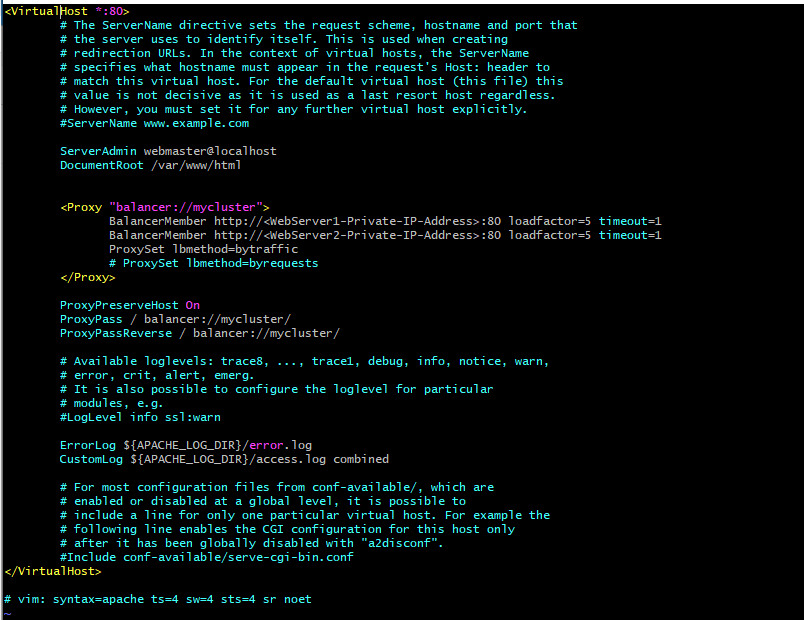
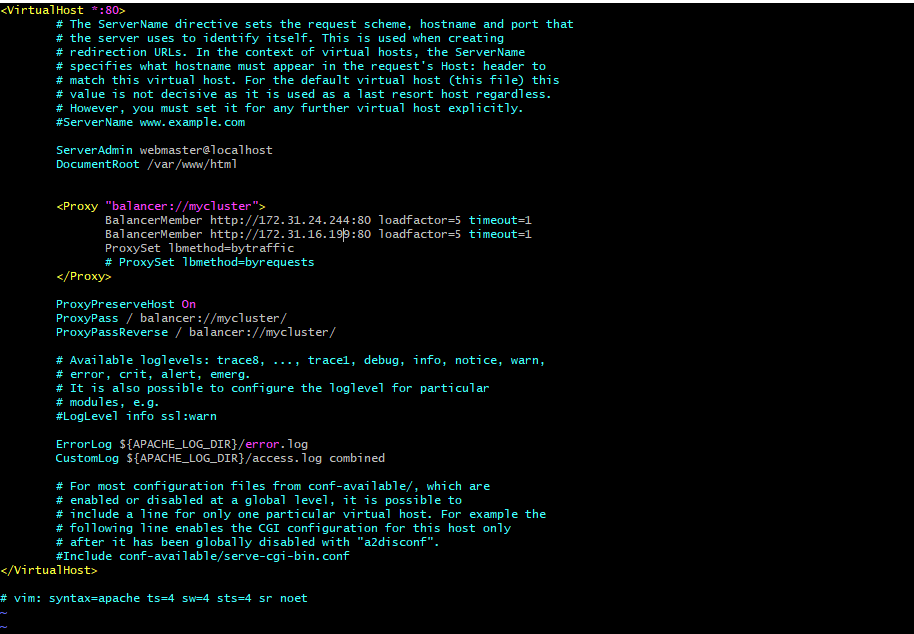
Implement project 8

Changed region(s): [[0.0, 0.0, 0.8085, 1.0]]

diff --git a/project8.md b/project8.md
@@ -9,7 +9,7 @@
 
 -  A Load Balancer (LB) distributes clients’ requests among underlying Web Servers and makes sure that the load is distributed in an optimal way.
 
-![](images/project7/arch.png)
+![](images/project8/arch.png)
 
 > Task
 _Deploy and configure an Apache Load Balancer for Tooling Website solution on a separate Ubuntu EC2 intance. Make sure that users can be served by Web servers through the Load Balancer._
@@ -62,7 +62,33 @@ sudo systemctl restart apache2
 
     ```
 
-    ![](images/project7/lb-config.png)
+    ![](images/project8/lb-config.png)
 
     * #Restart apache server: sudo systemctl restart apache2
-- Note: bytraffic balancing method will distribute incoming load between your Web Servers according to current traffic load
+- Note: bytraffic balancing method will distribute incoming load between your Web Servers according to current traffic load. We can control in which proportion the traffic must be distributed by loadfactor parameter.
+
+You can also study and try other methods, like: bybusyness, byrequests, heartbeat
+
+- Verify that the configuration works – try to access your LB’s public IP address or Public DNS name from your browser:
+    * http://<Load-Balancer-Public-IP-Address-or-Public-DNS-Name>/index.php
+
+ ![](images/project8/access-on-browser.png)
+
+> Optional Step – Configure Local DNS Names Resolution
+- Sometimes it is tedious to remember and switch between IP addresses, especially if you have a lot of servers under your management.
+```
+#Open this file on your LB server
+
+sudo vi /etc/hosts
+
+#Add 2 records into this file with Local IP address and arbitrary name for both of your Web Servers
+
+<WebServer1-Private-IP-Address> Web1
+<WebServer2-Private-IP-Address> Web2
+```
+- Update your LB config file with those names instead of IP addresses.
+```
+BalancerMember http://Web1:80 loadfactor=5 timeout=1
+BalancerMember http://Web2:80 loadfactor=5 timeout=1
+```
+- You can try to curl your Web Servers from LB locally curl http://Web1 or curl http://Web2
